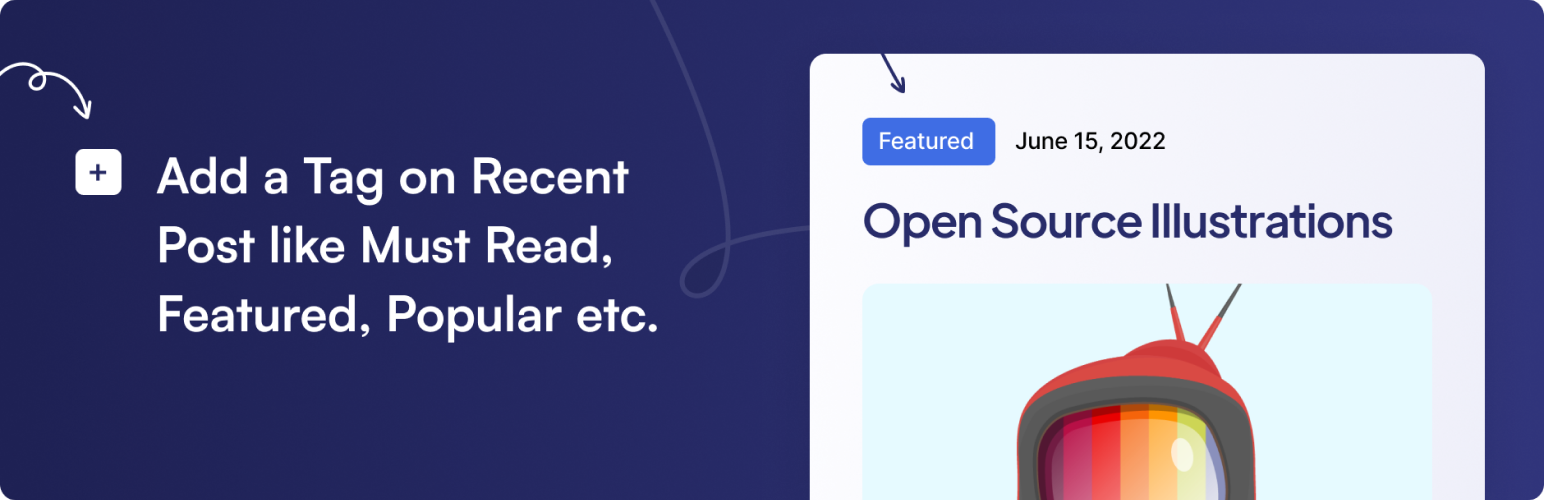
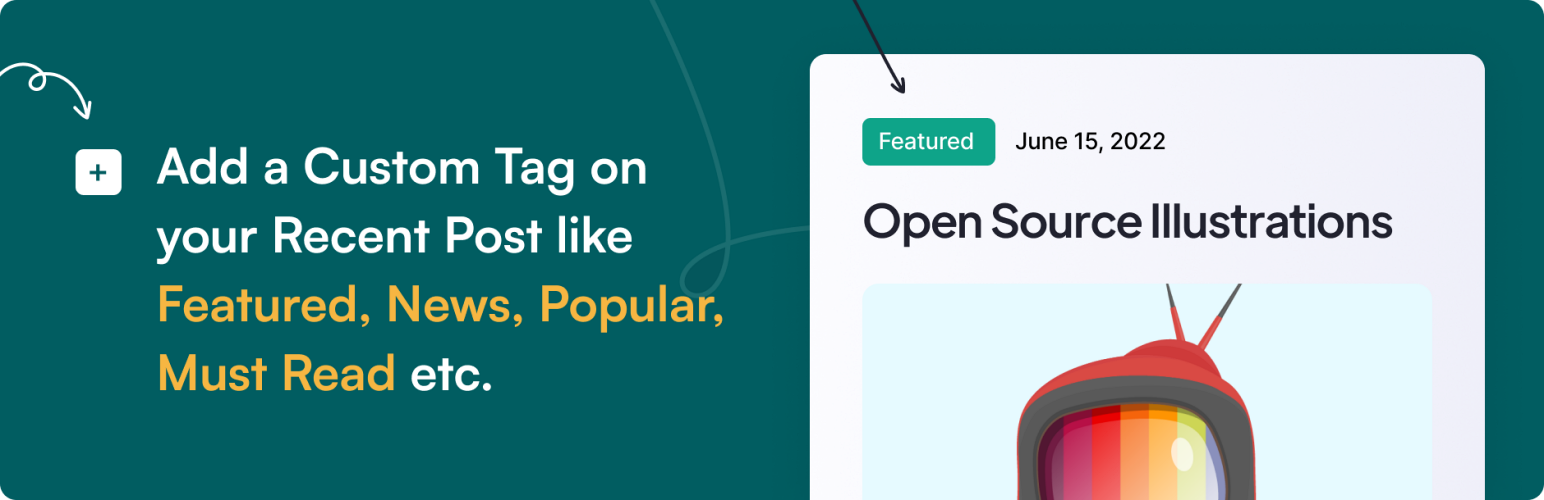
release v1.0.2

diff --git a/build/index.js b/build/index.js
@@ -1,1 +1,1 @@
-(()=>{"use strict";const e=window.wp.element,t=window.wp.blocks,o=JSON.parse('{"$schema":"https://schemas.wp.org/trunk/block.json","apiVersion":2,"name":"gutena/post-featured-tag","title":"Post Featured Tag","category":"gutena","description":"Post featured tag block use to add custom featured or new tag on post based on post date.","textdomain":"post-featured-tag-block-gutena","supports":{"html":false},"attributes":{"hideAfter":{"type":"integer"},"latestPost":{"type":"boolean"}},"usesContext":["postId","postType"],"editorScript":"file:./index.js"}'),n=window.wp.i18n,a=window.wp.data,s=window.wp.coreData,l=window.wp.components,r=window.wp.blockEditor,c=[["core/buttons"]];(0,t.registerBlockType)(o,{edit:function(t){let{attributes:o,context:i,setAttributes:p}=t;const d=(0,r.useBlockProps)(),g=(0,e.createElement)(r.InspectorControls,{key:"settings"},(0,e.createElement)(l.PanelBody,{title:(0,n.__)("Settings","post-featured-tag-block-gutena")},(0,e.createElement)(l.ToggleControl,{label:(0,n.__)("Show Tag only on Latest Post","post-featured-tag-block-gutena"),checked:o.latestPost,onChange:()=>p({latestPost:!o.latestPost})}),(0,e.createElement)(l.RangeControl,{label:(0,n.__)("Hide Tag after (in days)","post-featured-tag-block-gutena"),value:o.hideAfter,onChange:e=>p({hideAfter:e}),min:0,max:30,allowReset:!0}))),{latestPosts:u}=(0,a.useSelect)((e=>{const{getEntityRecords:t}=e(s.store);return{latestPosts:t("postType",i.postType,{per_page:1})}}),[]),w=!(null==u||!u.length),[m,h]=(0,s.useEntityProp)("postType",i.postType,"date",i.postId);let f=!0;return""!=o.hideAfter&&0!=o.hideAfter&&((e,t)=>{const o=Date.UTC(e.getFullYear(),e.getMonth(),e.getDate()),n=Date.UTC(t.getFullYear(),t.getMonth(),t.getDate());return Math.floor((n-o)/864e5)})(new Date(m),new Date)>o.hideAfter&&(f=!1),o.latestPost&&f&&w&&(f=u[0].id==i.postId),(0,e.createElement)(e.Fragment,null,g,f?(0,e.createElement)("div",d,(0,e.createElement)(r.InnerBlocks,{template:c})):(0,e.createElement)(e.Fragment,null))},save:function(){const t=r.useBlockProps.save({className:"post-featured-tag-block-gutena"});return(0,e.createElement)("div",t,(0,e.createElement)(r.InnerBlocks.Content,null))},icon:(0,e.createElement)("svg",{width:"24",height:"24",viewBox:"0 0 24 24",fill:"none",xmlns:"http://www.w3.org/2000/svg"},(0,e.createElement)("g",{"clip-path":"url(#clip0_3298_19)"},(0,e.createElement)("path",{d:"M4 2H20C20.2652 2 20.5196 2.10536 20.7071 2.29289C20.8946 2.48043 21 2.73478 21 3V22.276C21.0001 22.3594 20.9793 22.4416 20.9395 22.5149C20.8997 22.5882 20.8422 22.6505 20.7722 22.6959C20.7023 22.7413 20.622 22.7685 20.5388 22.775C20.4557 22.7815 20.3722 22.767 20.296 22.733L12 19.03L3.704 22.732C3.6279 22.766 3.54451 22.7805 3.46141 22.774C3.37831 22.7676 3.29813 22.7405 3.22818 22.6952C3.15822 22.6499 3.1007 22.5878 3.06085 22.5146C3.021 22.4414 3.00008 22.3593 3 22.276V3C3 2.73478 3.10536 2.48043 3.29289 2.29289C3.48043 2.10536 3.73478 2 4 2ZM19 19.965V4H5V19.965L12 16.841L19 19.965ZM12 13.5L9.061 15.045L9.622 11.773L7.245 9.455L10.531 8.977L12 6L13.47 8.977L16.755 9.455L14.378 11.773L14.938 15.045L12 13.5Z",fill:"#3F6DE4"})),(0,e.createElement)("defs",null,(0,e.createElement)("clipPath",{id:"clip0_3298_19"},(0,e.createElement)("rect",{width:"24",height:"24",fill:"white"}))))})})();
+(()=>{"use strict";const e=window.wp.element,t=window.wp.blocks,o=JSON.parse('{"$schema":"https://schemas.wp.org/trunk/block.json","apiVersion":2,"name":"gutena/post-featured-tag","title":"Recent Post Custom Tag","category":"gutena","keywords":["custom tag","recent post tag","post tag","featured tag","news post tag"],"description":"Post featured tag block use to add custom featured or new tag on post based on post date.","textdomain":"post-featured-tag-block-gutena","supports":{"html":false},"attributes":{"hideAfter":{"type":"integer"},"latestPost":{"type":"boolean"}},"usesContext":["postId","postType"],"editorScript":"file:./index.js"}'),a=window.wp.i18n,s=window.wp.data,n=window.wp.coreData,l=window.wp.components,r=window.wp.blockEditor,c=[["core/buttons"]];(0,t.registerBlockType)(o,{edit:function(t){let{attributes:o,context:i,setAttributes:p}=t;const{latestPost:d,hideAfter:g}=o,u=(0,r.useBlockProps)({className:"post-featured-tag-block-gutena"}),w=(0,r.useInnerBlocksProps)(u,{template:c}),m=(0,e.createElement)(r.InspectorControls,{key:"settings"},(0,e.createElement)(l.PanelBody,{title:(0,a.__)("Settings","post-featured-tag-block-gutena")},(0,e.createElement)(l.ToggleControl,{label:(0,a.__)("Show Tag only on Latest Post","post-featured-tag-block-gutena"),checked:d,onChange:()=>p({latestPost:!d})}),(0,e.createElement)(l.RangeControl,{label:(0,a.__)("Hide Tag after (in days)","post-featured-tag-block-gutena"),value:g,onChange:e=>p({hideAfter:e}),min:0,max:30,allowReset:!0}))),{latestPosts:h}=(0,s.useSelect)((e=>{const{getEntityRecords:t}=e(n.store);return{latestPosts:t("postType",i.postType,{per_page:1})}}),[]),f=!(null==h||!h.length),[C,k]=(0,n.useEntityProp)("postType",i.postType,"date",i.postId);let b=!0;return""!=o.hideAfter&&0!=o.hideAfter&&((e,t)=>{const o=Date.UTC(e.getFullYear(),e.getMonth(),e.getDate()),a=Date.UTC(t.getFullYear(),t.getMonth(),t.getDate());return Math.floor((a-o)/864e5)})(new Date(C),new Date)>o.hideAfter&&(b=!1),o.latestPost&&b&&f&&(b=h[0].id==i.postId),(0,e.createElement)(e.Fragment,null,m,b&&(0,e.createElement)("div",w))},save:function(){const t=r.useBlockProps.save({className:"post-featured-tag-block-gutena"}),o=r.useInnerBlocksProps.save(t);return(0,e.createElement)("div",o)},icon:(0,e.createElement)("svg",{width:"24",height:"24",viewBox:"0 0 24 24",fill:"none",xmlns:"http://www.w3.org/2000/svg"},(0,e.createElement)("g",{"clip-path":"url(#clip0_3298_19)"},(0,e.createElement)("path",{d:"M4 2H20C20.2652 2 20.5196 2.10536 20.7071 2.29289C20.8946 2.48043 21 2.73478 21 3V22.276C21.0001 22.3594 20.9793 22.4416 20.9395 22.5149C20.8997 22.5882 20.8422 22.6505 20.7722 22.6959C20.7023 22.7413 20.622 22.7685 20.5388 22.775C20.4557 22.7815 20.3722 22.767 20.296 22.733L12 19.03L3.704 22.732C3.6279 22.766 3.54451 22.7805 3.46141 22.774C3.37831 22.7676 3.29813 22.7405 3.22818 22.6952C3.15822 22.6499 3.1007 22.5878 3.06085 22.5146C3.021 22.4414 3.00008 22.3593 3 22.276V3C3 2.73478 3.10536 2.48043 3.29289 2.29289C3.48043 2.10536 3.73478 2 4 2ZM19 19.965V4H5V19.965L12 16.841L19 19.965ZM12 13.5L9.061 15.045L9.622 11.773L7.245 9.455L10.531 8.977L12 6L13.47 8.977L16.755 9.455L14.378 11.773L14.938 15.045L12 13.5Z",fill:"#0EA489"})),(0,e.createElement)("defs",null,(0,e.createElement)("clipPath",{id:"clip0_3298_19"},(0,e.createElement)("rect",{width:"24",height:"24",fill:"white"}))))})})();

diff --git a/src/edit.js b/src/edit.js
@@ -2,26 +2,32 @@ import { __ } from '@wordpress/i18n';
 import { useSelect } from '@wordpress/data';
 import { useEntityProp, store as coreStore } from '@wordpress/core-data';
 import { PanelBody, ToggleControl, RangeControl } from '@wordpress/components';
-import { InspectorControls, InnerBlocks, useBlockProps } from '@wordpress/block-editor';
+import { InspectorControls, useBlockProps, useInnerBlocksProps } from '@wordpress/block-editor';
 
 const BLOCK_TEMPLATE = [
-	["core/buttons"]
+	[ "core/buttons" ]
 ];
 
 export default function edit( { attributes, context, setAttributes } ) {
-    const blockProps = useBlockProps();
+    const { latestPost, hideAfter } = attributes;
+    const blockProps = useBlockProps( {
+        className: 'post-featured-tag-block-gutena',
+    } );
+    const innerBlocksProps = useInnerBlocksProps( blockProps, {
+        template: BLOCK_TEMPLATE
+    } );
 
     const inspectorControls = (
         <InspectorControls key="settings">
             <PanelBody title={ __( 'Settings', 'post-featured-tag-block-gutena' ) }>
                 <ToggleControl
                     label={ __( 'Show Tag only on Latest Post', 'post-featured-tag-block-gutena' ) }
-                    checked={ attributes.latestPost }
-                    onChange={ () => setAttributes( { latestPost: ! attributes.latestPost } ) }
+                    checked={ latestPost }
+                    onChange={ () => setAttributes( { latestPost: ! latestPost } ) }
                 />
                 <RangeControl
                     label={ __( 'Hide Tag after (in days)', 'post-featured-tag-block-gutena' ) }
-                    value={ attributes.hideAfter }
+                    value={ hideAfter }
                     onChange={ ( value ) => setAttributes( { hideAfter: value } ) }
                     min={ 0 }
                     max={ 30 }
@@ -76,14 +82,7 @@ export default function edit( { attributes, context, setAttributes } ) {
 	return (
         <>
             { inspectorControls }
-            { visible
-                ?  <div { ...blockProps }>
-                        <InnerBlocks
-                            template={ BLOCK_TEMPLATE }
-                        />
-                    </div>
-                : <></>
-            }
+            { visible && <div { ...innerBlocksProps } /> }
         </>
 	);
 }

diff --git a/src/index.js b/src/index.js
@@ -19,7 +19,7 @@ registerBlockType( metadata, {
     icon: (
         <svg width="24" height="24" viewBox="0 0 24 24" fill="none" xmlns="http://www.w3.org/2000/svg">
             <g clip-path="url(#clip0_3298_19)">
-                <path d="M4 2H20C20.2652 2 20.5196 2.10536 20.7071 2.29289C20.8946 2.48043 21 2.73478 21 3V22.276C21.0001 22.3594 20.9793 22.4416 20.9395 22.5149C20.8997 22.5882 20.8422 22.6505 20.7722 22.6959C20.7023 22.7413 20.622 22.7685 20.5388 22.775C20.4557 22.7815 20.3722 22.767 20.296 22.733L12 19.03L3.704 22.732C3.6279 22.766 3.54451 22.7805 3.46141 22.774C3.37831 22.7676 3.29813 22.7405 3.22818 22.6952C3.15822 22.6499 3.1007 22.5878 3.06085 22.5146C3.021 22.4414 3.00008 22.3593 3 22.276V3C3 2.73478 3.10536 2.48043 3.29289 2.29289C3.48043 2.10536 3.73478 2 4 2ZM19 19.965V4H5V19.965L12 16.841L19 19.965ZM12 13.5L9.061 15.045L9.622 11.773L7.245 9.455L10.531 8.977L12 6L13.47 8.977L16.755 9.455L14.378 11.773L14.938 15.045L12 13.5Z" fill="#3F6DE4"/>
+                <path d="M4 2H20C20.2652 2 20.5196 2.10536 20.7071 2.29289C20.8946 2.48043 21 2.73478 21 3V22.276C21.0001 22.3594 20.9793 22.4416 20.9395 22.5149C20.8997 22.5882 20.8422 22.6505 20.7722 22.6959C20.7023 22.7413 20.622 22.7685 20.5388 22.775C20.4557 22.7815 20.3722 22.767 20.296 22.733L12 19.03L3.704 22.732C3.6279 22.766 3.54451 22.7805 3.46141 22.774C3.37831 22.7676 3.29813 22.7405 3.22818 22.6952C3.15822 22.6499 3.1007 22.5878 3.06085 22.5146C3.021 22.4414 3.00008 22.3593 3 22.276V3C3 2.73478 3.10536 2.48043 3.29289 2.29289C3.48043 2.10536 3.73478 2 4 2ZM19 19.965V4H5V19.965L12 16.841L19 19.965ZM12 13.5L9.061 15.045L9.622 11.773L7.245 9.455L10.531 8.977L12 6L13.47 8.977L16.755 9.455L14.378 11.773L14.938 15.045L12 13.5Z" fill="#0EA489"/>
             </g>
             <defs>
                 <clipPath id="clip0_3298_19">

diff --git a/src/save.js b/src/save.js
@@ -1,14 +1,11 @@
 import { __ } from '@wordpress/i18n';
-import { InnerBlocks, useBlockProps } from "@wordpress/block-editor";
+import { useBlockProps, useInnerBlocksProps } from "@wordpress/block-editor";
 
 export default function save() {
 	const blockProps = useBlockProps.save( {
         className: 'post-featured-tag-block-gutena',
     } );
+	const innerBlocksProps = useInnerBlocksProps.save( blockProps );
 
-	return (
-		<div { ...blockProps }>
-			<InnerBlocks.Content />
-		</div>
-	);
+	return <div { ...innerBlocksProps } />
 }

diff --git a/post-featured-tag-block-gutena.php b/post-featured-tag-block-gutena.php
@@ -1,8 +1,8 @@
 <?php // @codingStandardsIgnoreLine
 /**
- * Plugin Name:     Gutena Recent Post Tag
- * Description:     Post Featured tag block use to add custom featured or new tag on post based on post date.
- * Version:         1.0.1
+ * Plugin Name:     Gutena Recent Post Custom Tag
+ * Description:     A WordPress Plugin that adds a custom tag to your recent post like Must Read, Featured, Hot, Top News, Popular etc. It helps you to attract the visitors to your Recent post in the best way possible.
+ * Version:         1.0.2
  * Author:          ExpressTech
  * License:         GPL-2.0-or-later
  * License URI:     https://www.gnu.org/licenses/gpl-2.0.html
@@ -30,7 +30,7 @@ if ( ! class_exists( 'Gutena_Post_Featured_Tag' ) ) {
 		 *
 		 * @var string
 		 */
-		public $version = '1.0.1';
+		public $version = '1.0.2';
 
 		/**
 		 * Instance of this class.

diff --git a/build/index.asset.php b/build/index.asset.php
@@ -1,1 +1,1 @@
-<?php return array('dependencies' => array('wp-block-editor', 'wp-blocks', 'wp-components', 'wp-core-data', 'wp-data', 'wp-element', 'wp-i18n'), 'version' => '6b01bcdd716fd638edb6');
+<?php return array('dependencies' => array('wp-block-editor', 'wp-blocks', 'wp-components', 'wp-core-data', 'wp-data', 'wp-element', 'wp-i18n'), 'version' => 'ed46be56b529a7775b00');
